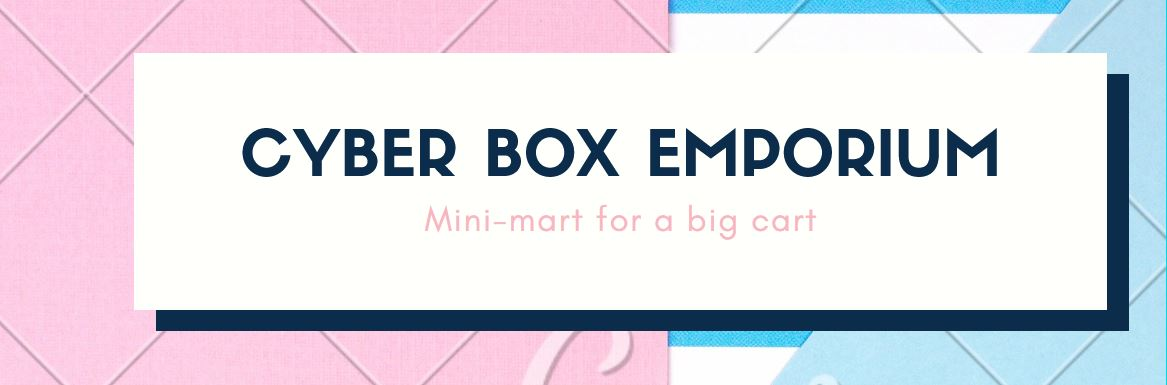
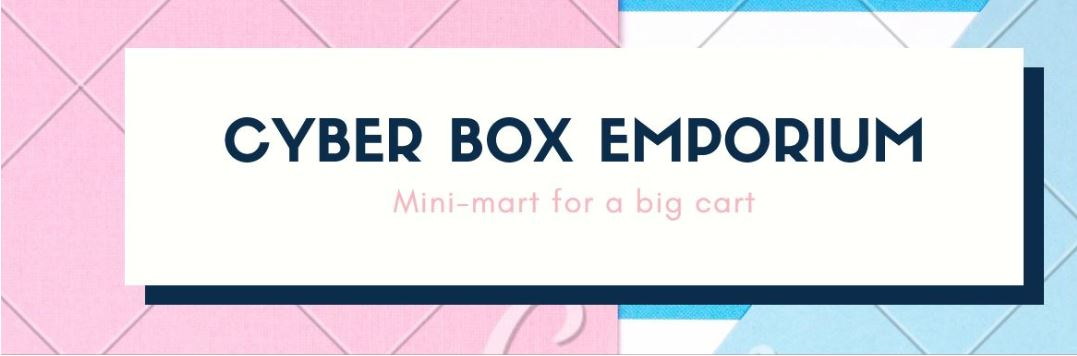
Openshift bebugging

diff --git a/website/templates/layout.html b/website/templates/layout.html
@@ -7,7 +7,7 @@
   </head>
   <body>
     <div class="bannerdiv">
-      <img src="/static/img/bannera.jpg" height=50 width=400 class="banner">
+      <img src="/static/img/banner.jpg" height=50 width=400 class="banner">
     </div>
     <div class="navPanel">
     <a id="homelink" href="{{url_for('home')}}">Shop</a>
